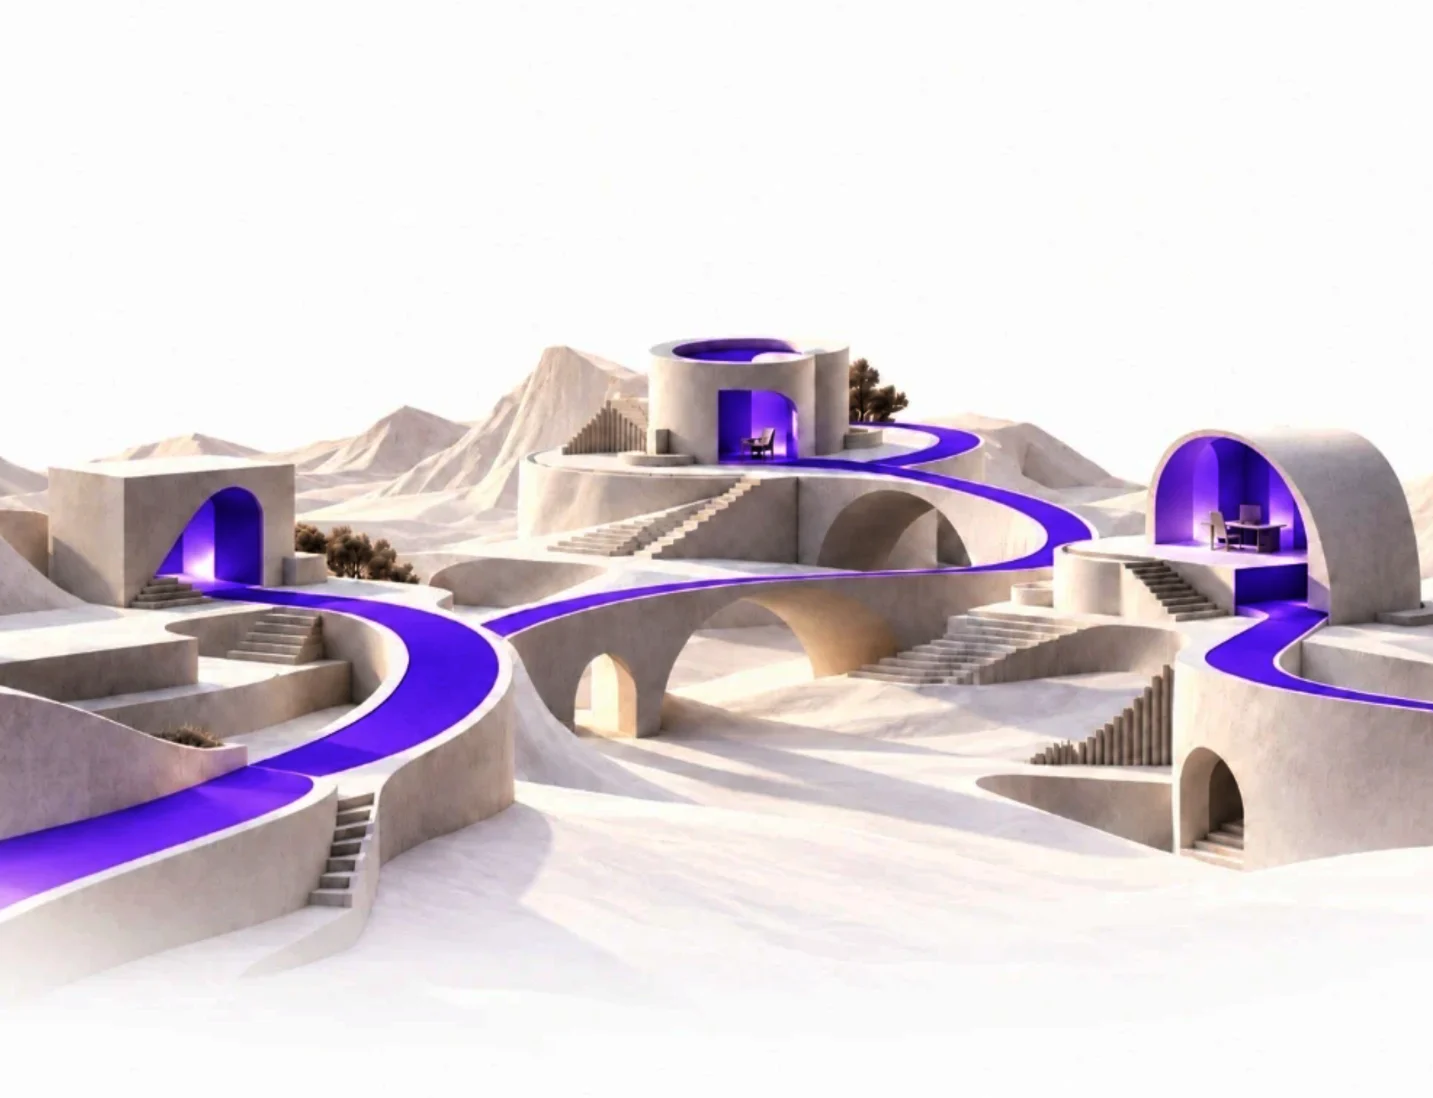
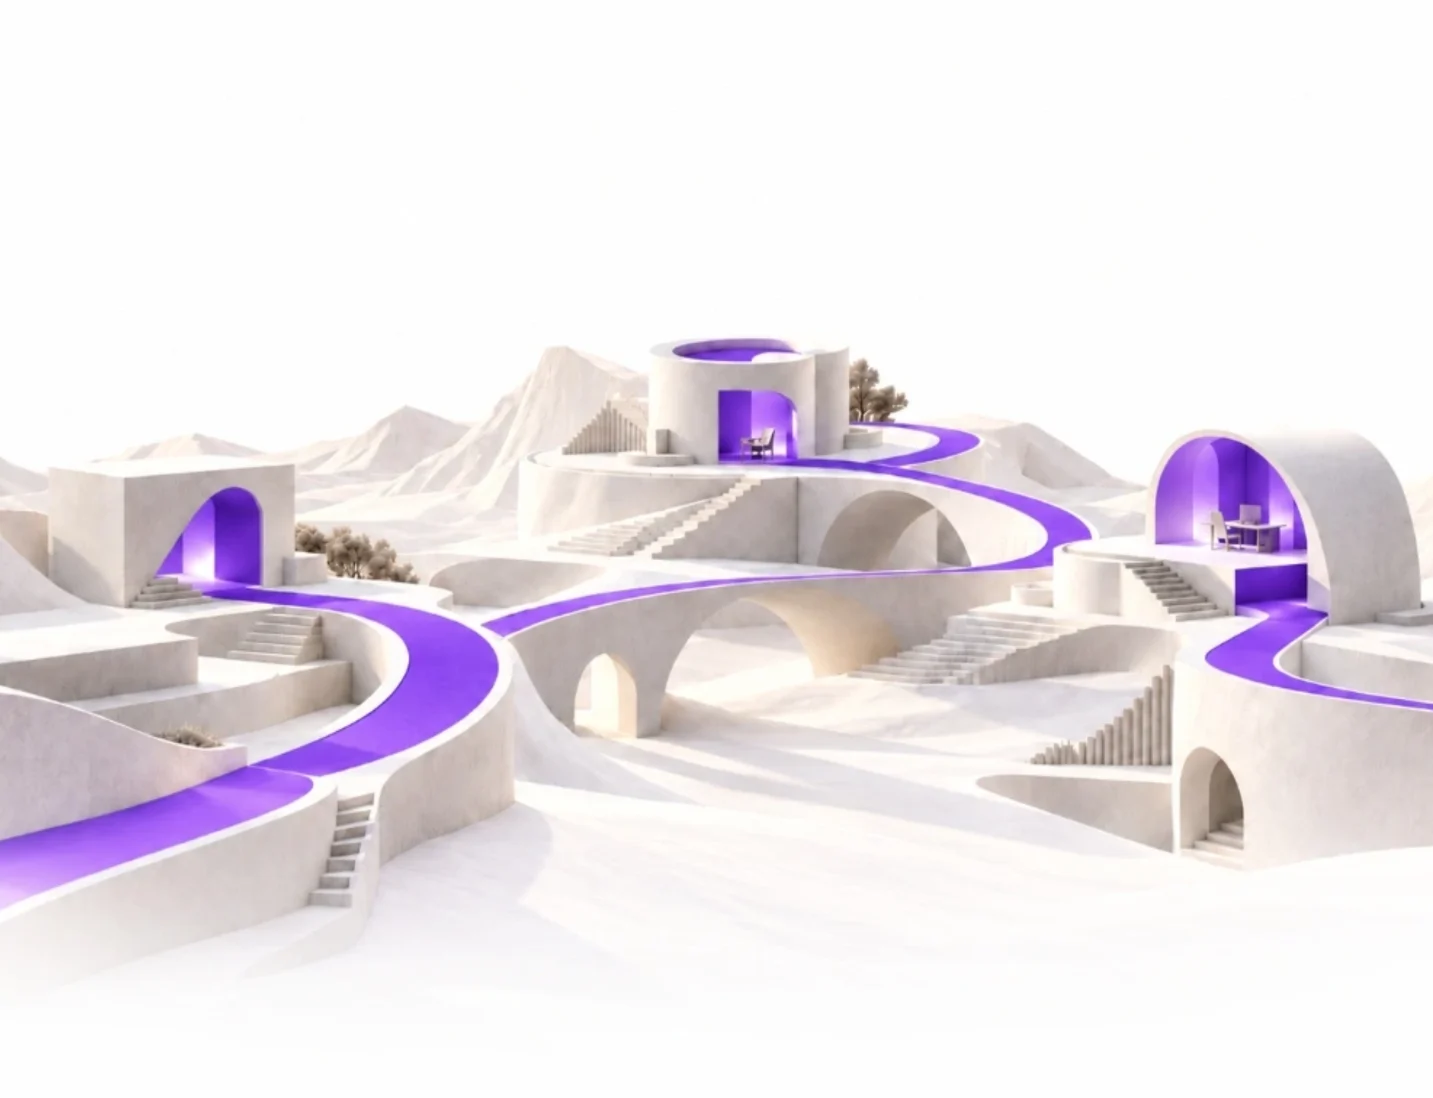
fix(2d5): calibrate color space to exact soft pastel reference lighting

diff --git a/design/scene-proof/landscape2d5.ts b/design/scene-proof/landscape2d5.ts
@@ -98,9 +98,9 @@ void main() {
   }
 
   if (activeMask > 0.05) {
-    float wave = 0.85 + 0.15 * sin(u_time * 3.8);
-    vec3 glowColor = vec3(0.58, 0.35, 0.96);
-    color.rgb = mix(color.rgb, glowColor * 1.35, activeMask * u_hover_intensity * wave);
+    float wave = 0.88 + 0.12 * sin(u_time * 3.2);
+    vec3 glowColor = vec3(0.55, 0.35, 0.92);
+    color.rgb = mix(color.rgb, color.rgb * 1.12 + glowColor * 0.22, activeMask * u_hover_intensity * wave);
   }
 
   gl_FragColor = color;
@@ -116,13 +116,15 @@ export async function createLandscape2D5(width: number, height: number): Promise
     loader.loadAsync(pathsImgUrl),
   ]);
 
-  imageTex.colorSpace = THREE.SRGBColorSpace;
+  imageTex.colorSpace = THREE.NoColorSpace;
   imageTex.minFilter = THREE.LinearFilter;
   imageTex.magFilter = THREE.LinearFilter;
 
+  depthTex.colorSpace = THREE.NoColorSpace;
   depthTex.minFilter = THREE.LinearFilter;
   depthTex.magFilter = THREE.LinearFilter;
 
+  pathsTex.colorSpace = THREE.NoColorSpace;
   pathsTex.minFilter = THREE.NearestFilter;
   pathsTex.magFilter = THREE.NearestFilter;
 
